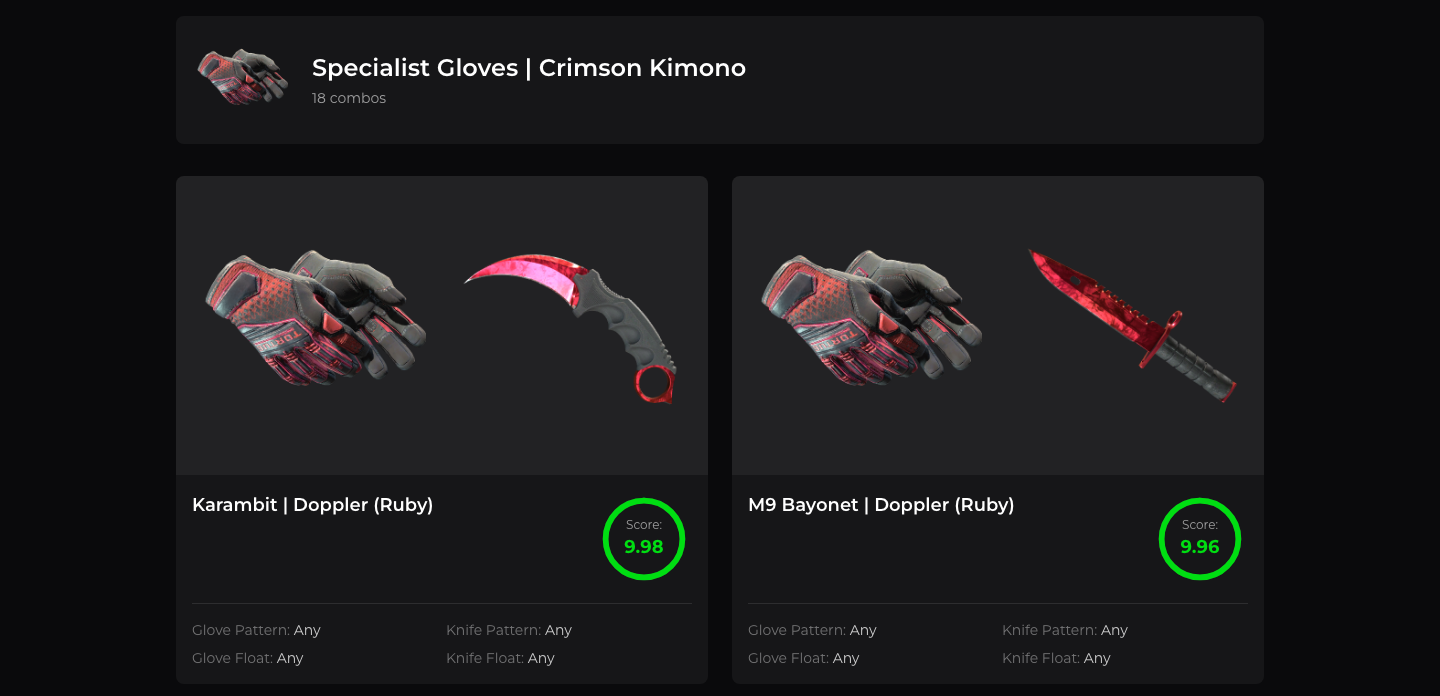
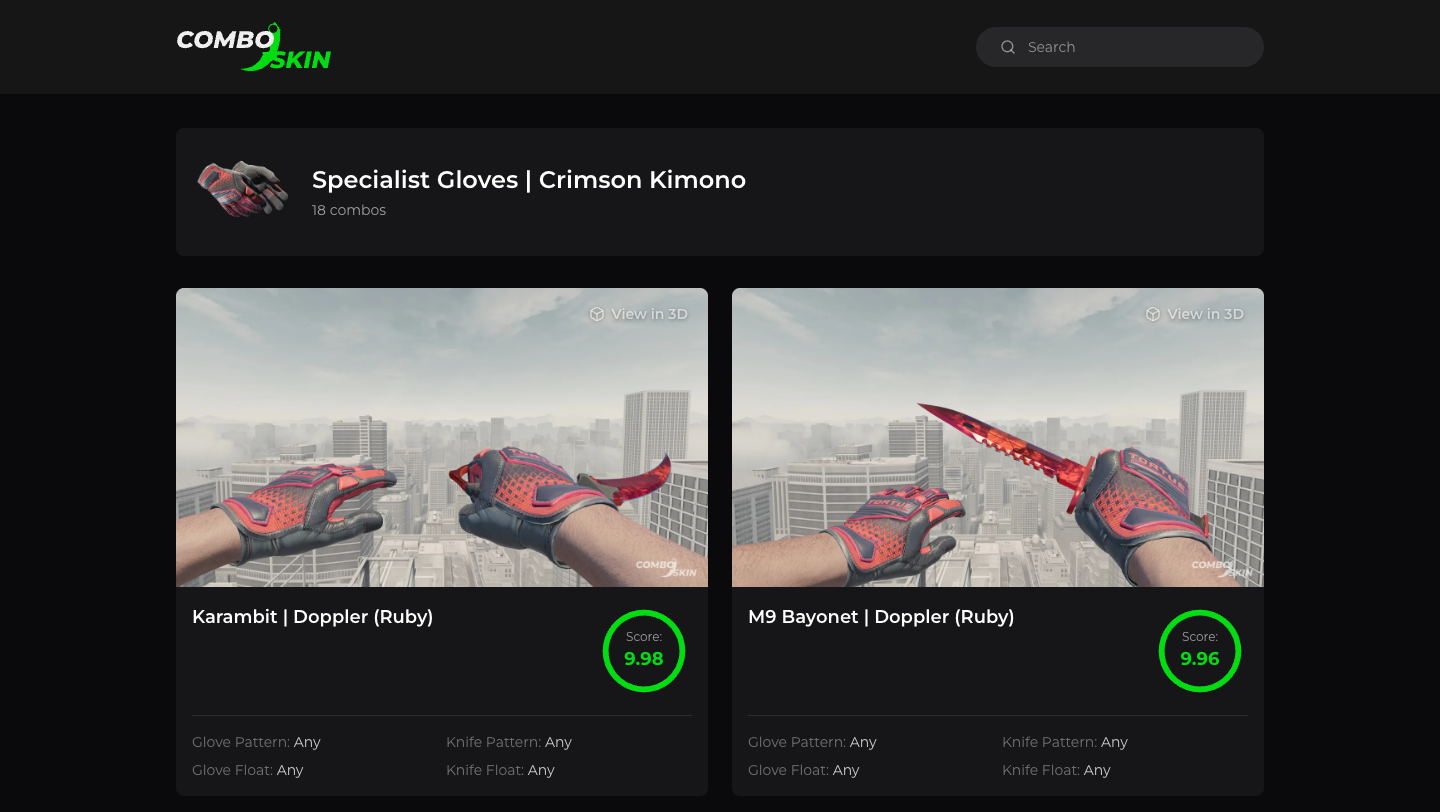
Refresh the website screenshots and add a glove finishes page

diff --git a/website/README.md b/website/README.md
@@ -41,9 +41,11 @@ The viewer and its message contract live in their own public repository; see its
 
 ![Home page with the "Find your perfect combo" heading and search-by-gloves and search-by-knives cards](docs/screenshots/home.png)
 
-![Search by gloves: a grid of the eight glove types with the number of finishes for each](docs/screenshots/search-gloves.png)
+![Search by gloves: a grid of the glove types, each with its number of finishes and of combos, and a "Has combos" filter](docs/screenshots/search-gloves.png)
 
-![Combos for Specialist Gloves | Crimson Kimono: "18 combos" under the finish name, then cards for Karambit and M9 Bayonet | Doppler (Ruby), each with the glove and knife pictures side by side, a score, and glove and knife pattern and float rows reading "Any"](docs/screenshots/combos.png)
+![Specialist Gloves: a grid of its finishes with their pictures, "18 combos" on Crimson Kimono, and a "Has combos" filter](docs/screenshots/glove-finishes.png)
+
+![Combos for Specialist Gloves | Crimson Kimono: "18 combos" under the finish name, then cards for Karambit and M9 Bayonet | Doppler (Ruby), each with its in-game screenshot, "View in 3D", a score, and glove and knife pattern and float rows reading "Any"](docs/screenshots/combos.png)
 
 ## Getting started
 
